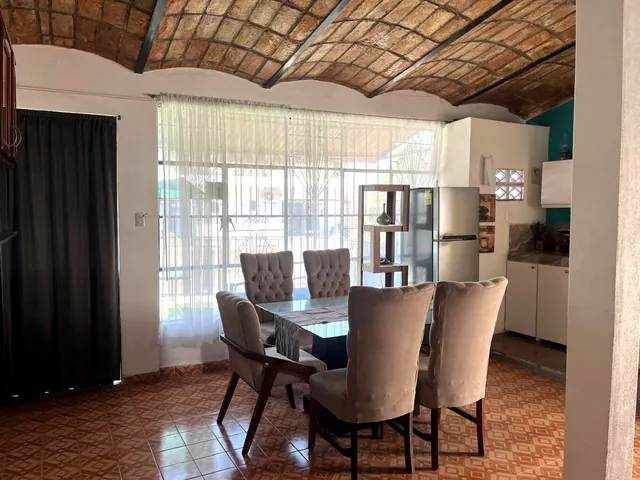
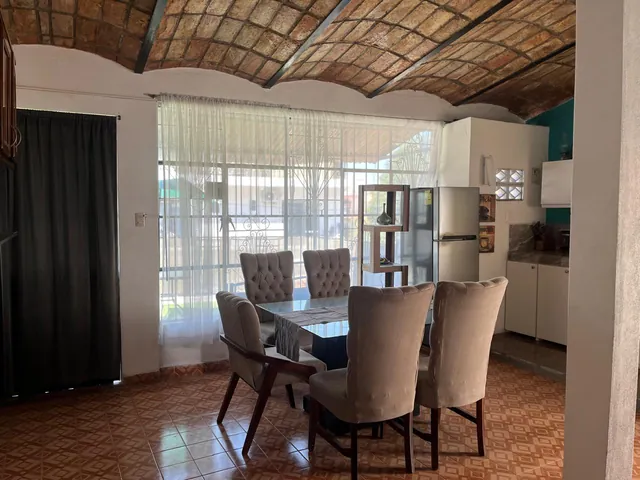
feat: switch gallery to the retouched set and state the upgrades
The photos on this listing are the AI-retouched set, not the raw camera roll.
That is a deliberate call by the owner: the source frames were shot when the
renovation was at roughly 70% — before the bathroom was redone, the interiors
repainted and the curtains replaced — so they undersell the unit to a
prospect. The differences between the two sets, which go beyond staging and
include a redrawn terrace lattice, a different neighbouring building, extended
lawn and an invented door, were reviewed before the decision. The untouched
originals stay in D:/Claude/Brasil/Fotos/New Ones, and the comment above the
PHOTOS constant records all of this for whoever edits the file next. The plan
is to replace the whole set with a fresh shoot of the finished apartment.

Also adds an upgrades block to #apartment, in all three languages: what is
already renovated (bathroom, paint, curtains) and what the unit is delivered
with (new sofa, TV, refrigerator). Furniture that has not arrived cannot be
photographed, so this is the part of the offer that has to be carried by text,
and it is what defends the asking price.

Note for local work: start the dev server with `npm run dev`, not
`npx next dev`. Only the npm script runs `predev`, which rebuilds
public/tailwind.css; skipping it silently serves stale CSS and new utility
classes appear to do nothing.

Verified at 1280 and 375: two columns and one respectively, no horizontal
[…]

diff --git a/pages/index.js b/pages/index.js
@@ -9,6 +9,7 @@ export async function getServerSideProps({ res, query }) {
       meta:'Boutique rooftop apartment with private terrace in Puerto Vallarta. Walk to the beach, market and downtown.',
       fSending:'Sending…', fOk:'✓ Message sent! We will get back to you shortly.', fErr:'Could not send. Please contact us via WhatsApp.',
       galleryHint:'Tap any photo to open the full gallery.', lbClose:'Close', lbPrev:'Previous photo', lbNext:'Next photo',
+      upgTitle:'Recently renovated', upgDone:['Renovated bathroom','Freshly painted interiors','New curtains'], upgSoonTitle:'Upgraded before move-in', upgSoon:['New sofa','New TV','New refrigerator'],
       tagline:'Authentic rooftop living in Puerto Vallarta', cta:'Check availability',
       badge:'Private terrace · beach + market within walking distance · authentic neighborhood',
       heroDesc:'A boutique rooftop apartment with a private terrace in Puerto Vallarta. Walk to the beach, the municipal market and downtown.',
@@ -56,6 +57,7 @@ export async function getServerSideProps({ res, query }) {
       meta:'Apartamento boutique con terraza privada en Puerto Vallarta. Playa, mercado y centro caminando.',
       fSending:'Enviando…', fOk:'✓ ¡Mensaje enviado! Te respondemos en breve.', fErr:'No se pudo enviar. Contáctanos por WhatsApp.',
       galleryHint:'Toca cualquier foto para abrir la galería completa.', lbClose:'Cerrar', lbPrev:'Foto anterior', lbNext:'Foto siguiente',
+      upgTitle:'Recién renovado', upgDone:['Baño renovado','Interiores recién pintados','Cortinas nuevas'], upgSoonTitle:'Se entrega con', upgSoon:['Sofá nuevo','TV nueva','Refrigerador nuevo'],
       tagline:'Authentic rooftop living in Puerto Vallarta', cta:'Consultar disponibilidad',
       badge:'Terraza privada · playa + mercado municipal caminando · barrio auténtico',
       heroDesc:'Apartamento boutique de 1 recámara con terraza privada para vivir Puerto Vallarta como local: playa, mercado municipal y centro caminando.',
@@ -103,6 +105,7 @@ export async function getServerSideProps({ res, query }) {
       meta:'Appartement boutique avec terrasse privée à Puerto Vallarta. Plage, marché municipal et centre-ville à pied.',
       fSending:'Envoi…', fOk:'✓ Message envoyé ! Nous vous répondrons rapidement.', fErr:'Envoi impossible. Contactez-nous via WhatsApp.',
       galleryHint:'Touchez une photo pour ouvrir la galerie complète.', lbClose:'Fermer', lbPrev:'Photo précédente', lbNext:'Photo suivante',
+      upgTitle:'Récemment rénové', upgDone:['Salle de bain rénovée','Intérieurs repeints','Rideaux neufs'], upgSoonTitle:'Livré avec', upgSoon:['Canapé neuf','Téléviseur neuf','Réfrigérateur neuf'],
       tagline:'Authentic rooftop living in Puerto Vallarta', cta:'Vérifier les disponibilités',
       badge:'Terrasse privée · plage + marché à pied · quartier authentique',
       heroDesc:'Appartement rooftop boutique avec terrasse privée à Puerto Vallarta. Plage, marché municipal et centre-ville accessibles à pied.',
@@ -158,11 +161,20 @@ export async function getServerSideProps({ res, query }) {
   const maps = 'https://www.google.com/maps/search/?api=1&query=Calle%20Brasil%201434%20Puerto%20Vallarta'
   const SITE = 'https://brasil.castlesolutions.mx'
 
-  // Fotos del departamento tal como se tomaron (agosto 2026), servidas en WebP desde
-  // public/images/. Sin retoque de contenido: no se quitan ni se agregan elementos,
-  // no se altera la arquitectura ni el entorno. Lo unico aplicado es correccion de
-  // exposicion en las tomas oscuras. Tampoco se escalan hacia arriba (llegaron ya
-  // comprimidas a 1280 px), porque agrandar inventa detalle que la camara no capto.
+  // Fotos del departamento, servidas en WebP desde public/images/.
+  //
+  // OJO si vas a editar esto: este set esta RETOCADO CON IA y no corresponde uno a uno
+  // con el inmueble fotografiado. Ademas de limpiar tiradero, la IA redibujo la celosia
+  // de la terraza, cambio el edificio vecino, extendio el pasto e invento una puerta
+  // cerrada donde hay un vano abierto.
+  //
+  // Es una decision tomada por Rolo el 2026-08-22, con el detalle de esas diferencias a
+  // la vista: las tomas de origen son de cuando la remodelacion iba al 70% (antes de
+  // cambiar el bano, repintar y poner cortinas) y subvaluaban el depa frente a un
+  // prospecto. Los originales sin tocar viven en D:/Claude/Brasil/Fotos/New Ones.
+  //
+  // Plan acordado: sustituir todo esto por una sesion nueva del depa ya terminado.
+  // Cuando lleguen esas fotos, este comentario se borra.
   const HERO = '/images/rooftop-panoramica.webp'
 
   // og:image en JPEG y absoluto: WhatsApp y Facebook no siempre resuelven WebP ni rutas relativas.
@@ -170,20 +182,20 @@ export async function getServerSideProps({ res, query }) {
 
   // w/h explicitos para que el navegador reserve el espacio y no brinque el layout al cargar.
   const PHOTOS = [
-    { id: 'rooftop-panoramica', g: 'terrace',  w: 1280, h:  960 },
-    { id: 'terraza-asador',     g: 'terrace',  w: 1280, h:  960 },
-    { id: 'terraza-mesa',       g: 'terrace',  w: 1280, h:  960 },
-    { id: 'terraza-celosia',    g: 'terrace',  w: 1280, h:  960 },
-    { id: 'sala-boveda',        g: 'interior', w: 1280, h:  960 },
-    { id: 'comedor',            g: 'interior', w: 1280, h:  960 },
-    { id: 'cocina',             g: 'interior', w: 1280, h:  960 },
-    { id: 'cocina-ac',          g: 'interior', w: 1280, h:  960 },
-    { id: 'recamara',           g: 'interior', w: 1280, h:  960 },
-    { id: 'recamara-cama',      g: 'interior', w: 1280, h:  960 },
-    { id: 'recamara-tv',        g: 'interior', w: 1280, h:  960 },
-    { id: 'bano-lavabo',        g: 'interior', w: 1280, h:  960 },
-    { id: 'bano-regadera',      g: 'interior', w: 1280, h:  960 },
-    { id: 'bano-detalle',       g: 'interior', w:  960, h: 1280 },
+    { id: 'rooftop-panoramica',   g: 'terrace',  w: 1200, h:  896 },
+    { id: 'terraza-asador',       g: 'terrace',  w: 1200, h:  896 },
+    { id: 'terraza-mesa',         g: 'terrace',  w: 1200, h:  896 },
+    { id: 'terraza-celosia',      g: 'terrace',  w: 1200, h:  896 },
+    { id: 'sala-boveda',          g: 'interior', w: 1200, h:  896 },
+    { id: 'comedor',              g: 'interior', w: 1280, h:  960 },
+    { id: 'cocina',               g: 'interior', w: 1200, h:  896 },
+    { id: 'cocina-ac',            g: 'interior', w: 1280, h:  960 },
+    { id: 'recamara',             g: 'interior', w: 1200, h:  896 },
+    { id: 'recamara-cama',        g: 'interior', w: 1200, h:  896 },
+    { id: 'recamara-tv',          g: 'interior', w: 1200, h:  896 },
+    { id: 'bano-lavabo',          g: 'interior', w: 1200, h:  896 },
+    { id: 'bano-regadera',        g: 'interior', w: 1280, h:  960 },
+    { id: 'bano-detalle',         g: 'interior', w:  960, h: 1280 },
   ]
 
   const PHOTO_ALT = {
@@ -353,7 +365,7 @@ export async function getServerSideProps({ res, query }) {
 <section class="relative">
 <div class="relative h-[74vh] min-h-[520px] w-full overflow-hidden">
   <div class="imgfade absolute inset-0"></div>
-  <img src="${HERO}" alt="${attr(photoAlt['rooftop-panoramica'])}" width="1280" height="960" fetchpriority="high" decoding="async" class="h-full w-full object-cover"/>
+  <img src="${HERO}" alt="${attr(photoAlt['rooftop-panoramica'])}" width="1200" height="896" fetchpriority="high" decoding="async" class="h-full w-full object-cover"/>
   <div class="absolute inset-0 mx-auto flex max-w-6xl items-end px-4 pb-6">
 
     <!-- MOBILE: compact bottom strip -->
@@ -403,7 +415,7 @@ export async function getServerSideProps({ res, query }) {
     </div>
     <div>
       <button type="button" data-photo="1" aria-label="${attr(photoAlt['terraza-asador'])}" class="block w-full rounded-3xl overflow-hidden shadow-soft ring-soft focus:outline-none focus:ring-2 focus:ring-emerald-600">
-        <img src="/images/terraza-asador.webp" alt="${attr(photoAlt['terraza-asador'])}" width="1280" height="960" loading="lazy" decoding="async" class="h-[360px] w-full object-cover md:h-[420px]"/>
+        <img src="/images/terraza-asador.webp" alt="${attr(photoAlt['terraza-asador'])}" width="1200" height="896" loading="lazy" decoding="async" class="h-[360px] w-full object-cover md:h-[420px]"/>
       </button>
       ${grid('terrace')}
       <p class="mt-3 text-xs text-zinc-500">${d.galleryHint}</p>
@@ -414,10 +426,21 @@ export async function getServerSideProps({ res, query }) {
 
 <section id="apartment" class="mx-auto max-w-6xl px-4 py-14">
 <button type="button" data-photo="4" aria-label="${attr(photoAlt['sala-boveda'])}" class="block w-full rounded-3xl overflow-hidden shadow-soft ring-soft focus:outline-none focus:ring-2 focus:ring-emerald-600">
-  <img src="/images/sala-boveda.webp" alt="${attr(photoAlt['sala-boveda'])}" width="1280" height="960" loading="lazy" decoding="async" class="h-[300px] w-full object-cover md:h-[460px]"/>
+  <img src="/images/sala-boveda.webp" alt="${attr(photoAlt['sala-boveda'])}" width="1200" height="896" loading="lazy" decoding="async" class="h-[300px] w-full object-cover md:h-[460px]"/>
 </button>
 ${grid('interior')}
-<p class="mt-3 mb-10 text-xs text-zinc-500">${d.galleryHint}</p>
+<p class="mt-3 text-xs text-zinc-500">${d.galleryHint}</p>
+
+<div class="mt-8 mb-10 grid gap-6 rounded-3xl border border-emerald-200/70 bg-emerald-50/60 p-6 sm:grid-cols-2">
+  <div>
+    <p class="text-xs font-semibold uppercase tracking-widest text-emerald-700">${d.upgTitle}</p>
+    <ul class="mt-3 space-y-1.5 text-sm text-zinc-700">${d.upgDone.map(x=>`<li class="flex items-start gap-2"><span class="mt-1.5 inline-block h-1.5 w-1.5 flex-shrink-0 rounded-full bg-emerald-600"></span><span>${x}</span></li>`).join('')}</ul>
+  </div>
+  <div>
+    <p class="text-xs font-semibold uppercase tracking-widest text-emerald-700">${d.upgSoonTitle}</p>
+    <ul class="mt-3 space-y-1.5 text-sm text-zinc-700">${d.upgSoon.map(x=>`<li class="flex items-start gap-2"><span class="mt-1.5 inline-block h-1.5 w-1.5 flex-shrink-0 rounded-full bg-emerald-600"></span><span>${x}</span></li>`).join('')}</ul>
+  </div>
+</div>
 <div class="grid gap-10 md:grid-cols-2 md:items-start">
   <div class="rounded-3xl bg-white p-6 shadow-soft border border-zinc-200/60">
     <p class="text-xs font-semibold text-emerald-600 uppercase tracking-widest mb-2">${d.aLabel}</p>
